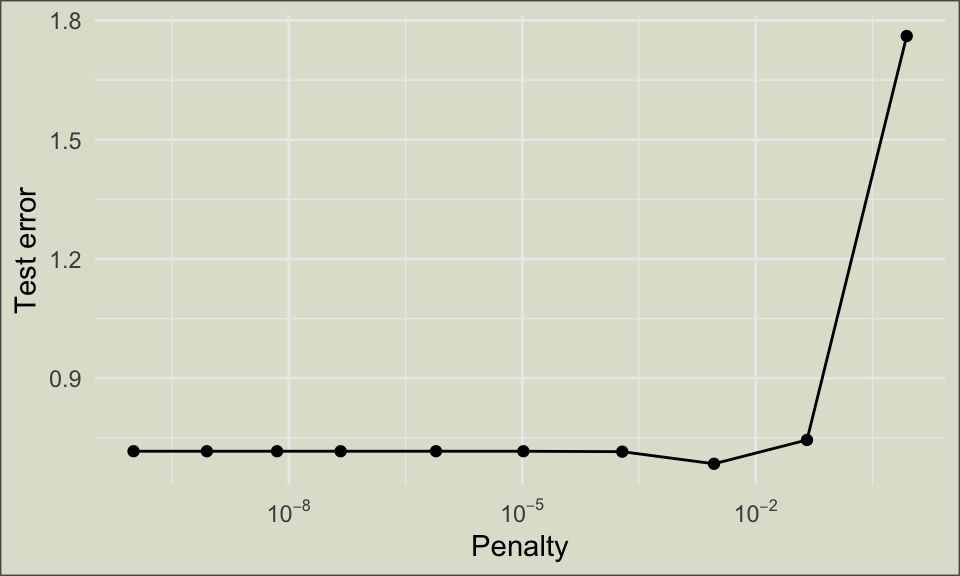
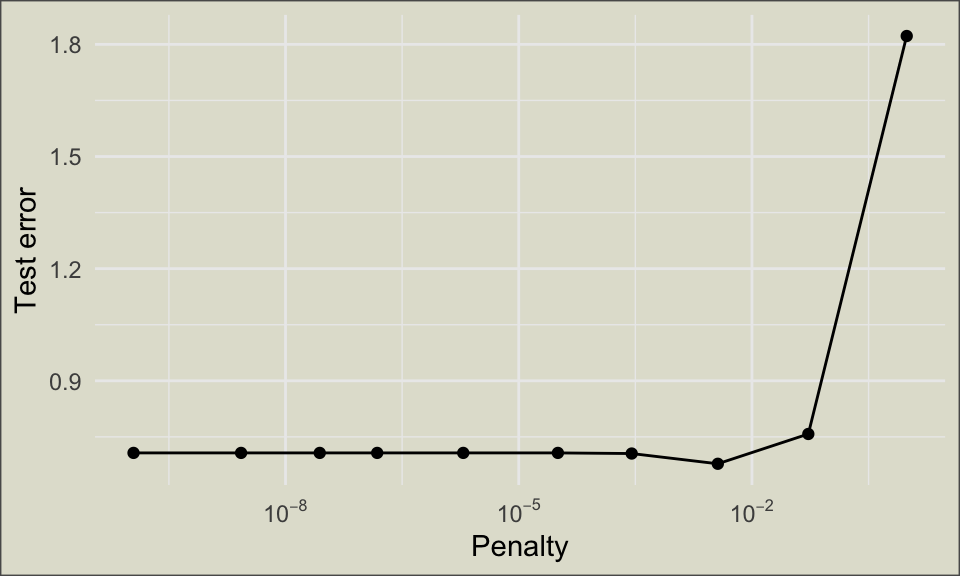
Prep lasso blog post

diff --git a/docs/pubs.html b/docs/pubs.html
@@ -220,7 +220,7 @@ window.Quarto = {
 
 <p>In addition to teaching, consulting, and maintaining two YouTube channels, I publish consistently in data science and mathematics, often with undergraduate collaborators. Click titles to download.</p>
 <ul>
-<li><p>Gard, A, &amp; Martin, G. Practical data analysis with R: a handbook for the working professional. <em>Under contract with No Starch Press</em>. Expected completion: Winter, 2025.</p></li>
+<li><p>Gard, A, &amp; Martin, G. Practical data analysis with R: a handbook for the working professional. <em>Under revision with No Starch Press</em>.</p></li>
 <li><p>Gard, A., et. al.&nbsp;<a href="./papers/measuring plant conservancy.pdf">A new metric for measuring the conservancy of plant species</a>*. Under review at <em>Ecological Applications</em>.</p></li>
 <li><p>Gard, A., Myers A., &amp; Luwabelwa, I (2024). <a href="./papers/fqar joss.pdf">The <em>fqar</em> package: R tools for analyzing floristic quality assessment data</a>*. <em>Journal of Open Source Software</em>, 9(96), 6366, https://doi.org/10.21105/joss.06366</p></li>
 <li><p>Gard, A., &amp; Wilson, O. (2023). <a href="./papers/pii.pdf">Prediction intervals for interpolants</a>*. <em>Rocky Mountain Journal of Mathematics</em>. Accepted Sept.&nbsp;2023, DOI pending.</p></li>
